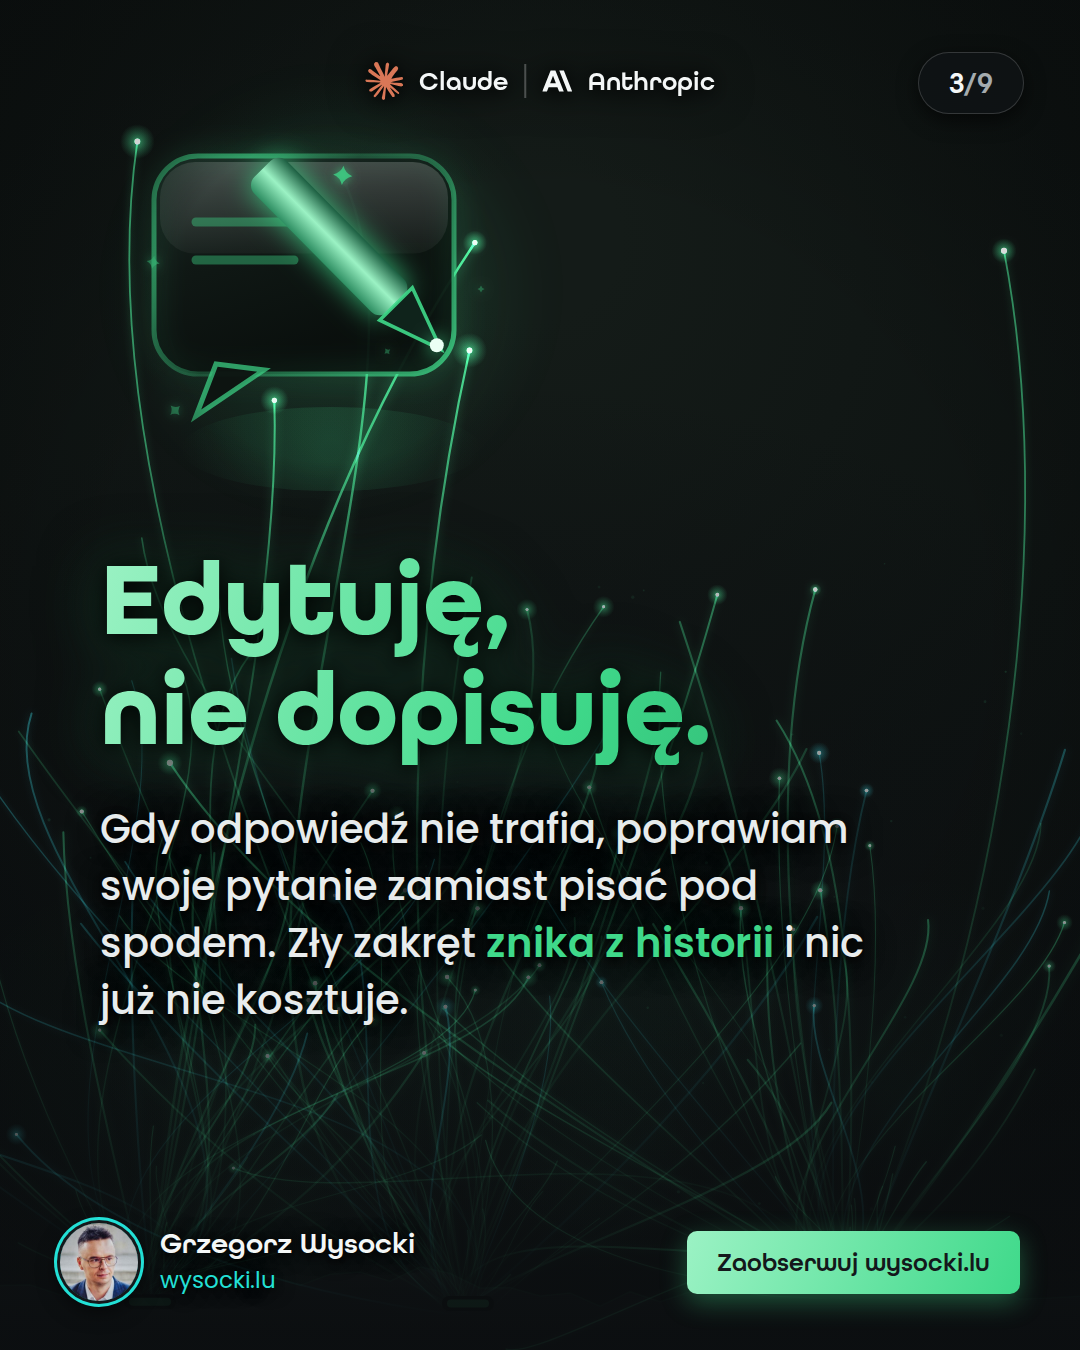
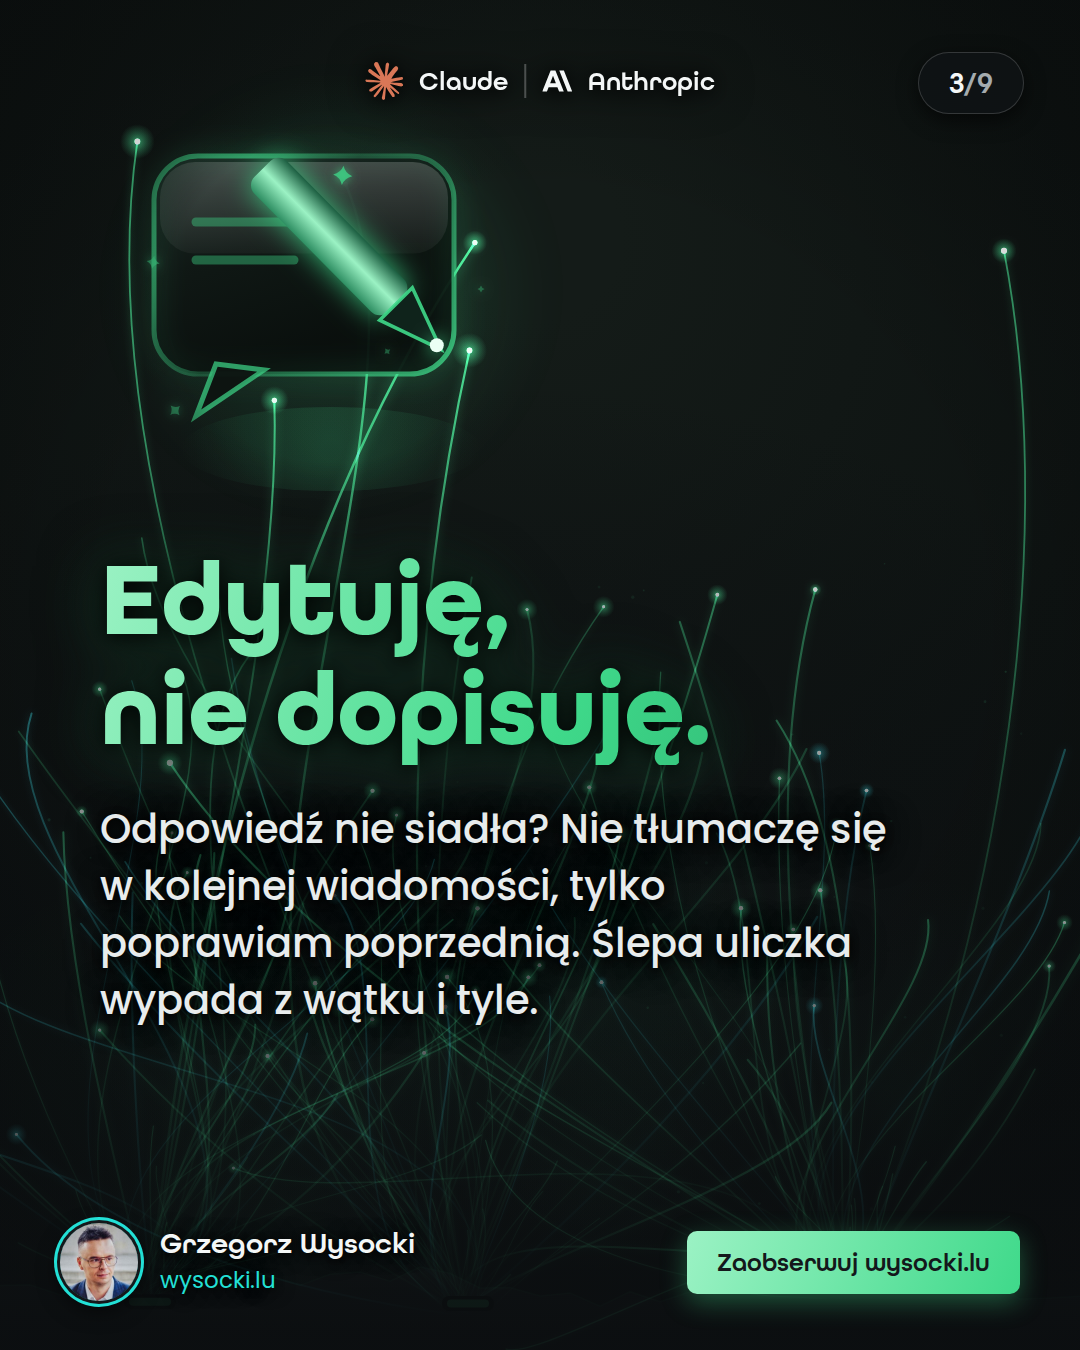
tmp: teksty przepisane na naturalny jezyk
Claude-Session: https://claude.ai/code/session_01VLdxJwrEUDSQYqUjMPfjQ4

Changed region(s): [[0.0917, 0.5911, 0.825, 0.7778]]

diff --git a/index.html b/index.html
@@ -36,21 +36,13 @@ h2{font-size:15px;font-weight:600;margin:28px 0 10px;border-left:3px solid #3FD9
   <a class="card" href="out-tk/slajd-tk-s9.png" download><img src="out-tk/slajd-tk-s9.png" alt="Slajd 9 — CTA"><div class="cap"><b>9</b> · CTA</div></a>
 </div>
 <h2>Opis posta</h2>
-<div class="opis" id="opis">Limit w Claude znikał mi szybciej, niż powinien. Rozpracowałem, gdzie naprawdę uciekają tokeny, i tak sobie to poukładałem. 👇
+<div class="opis" id="opis">W środku roboty wyskoczyło mi „limit reached". Wkurzyłem się i sprawdziłem, na co realnie schodzą tokeny w Claude.
 
-Wyszło z tego 7 poziomów, od świeżego czatu po tryb jaskiniowca. Te same efekty, mniejsze zużycie.
+Wyszło z tego 7 nawyków, które od tamtej pory stosuję codziennie: nowy czat zamiast ciągnięcia starego wątku, edycja pytania zamiast dopisywania, trzy sprawy w jednej wiadomości, Haiku do drobiazgów, stałe pliki w Projekcie, ciężkie zlecenia na noc i krótki styl odpowiedzi.
 
-1⃣ Nowy czat. Długa rozmowa czyta się od początku, więc proszę o podsumowanie i zaczynam świeży wątek.
-2⃣ Edycja. Poprawiam swoje pytanie zamiast dopisywać pod spodem.
-3⃣ Paczka. Trzy pytania pakuję w jedną wiadomość.
-4⃣ Modele. Drobiazgi oddaję Haiku, Opusa trzymam do poważnej pracy.
-5⃣ Projekty. Stałe pliki wgrywam raz, do Projektu.
-6⃣ Nocna zmiana. Ciężkie zlecenia puszczam przed snem, rano są zrobione.
-7⃣ Tryb jaskiniowca. Proszę o zwięzłe odpowiedzi, bez lania wody.
+Szczegóły są na slajdach, każdy nawyk osobno.
 
-Zapisz sobie ten post 🔖 i sprawdź u siebie.
-
-Zaobserwuj mnie po więcej takich ciekawostek o Claude i AI po ludzku. 🟢
+Testuję Claude po polsku, na własnych projektach, i wrzucam takie rzeczy regularnie. Zaobserwuj mnie, jak chcesz być na bieżąco.
 
 #claudeai #claude #anthropic #sztucznainteligencja #aitools #narzedziaai #produktywnosc #aipoludzku</div>
 <button class="kopiuj" onclick="navigator.clipboard.writeText(document.getElementById('opis').innerText).then(()=>{this.textContent='Skopiowano ✓';setTimeout(()=>this.textContent='Kopiuj opis',1600)})">Kopiuj opis</button>

diff --git a/README.md b/README.md
@@ -20,21 +20,13 @@
 ## Opis posta (skopiuj)
 
 ```text
-Limit w Claude znikał mi szybciej, niż powinien. Rozpracowałem, gdzie naprawdę uciekają tokeny, i tak sobie to poukładałem. 👇
+W środku roboty wyskoczyło mi „limit reached". Wkurzyłem się i sprawdziłem, na co realnie schodzą tokeny w Claude.
 
-Wyszło z tego 7 poziomów, od świeżego czatu po tryb jaskiniowca. Te same efekty, mniejsze zużycie.
+Wyszło z tego 7 nawyków, które od tamtej pory stosuję codziennie: nowy czat zamiast ciągnięcia starego wątku, edycja pytania zamiast dopisywania, trzy sprawy w jednej wiadomości, Haiku do drobiazgów, stałe pliki w Projekcie, ciężkie zlecenia na noc i krótki styl odpowiedzi.
 
-1⃣ Nowy czat. Długa rozmowa czyta się od początku, więc proszę o podsumowanie i zaczynam świeży wątek.
-2⃣ Edycja. Poprawiam swoje pytanie zamiast dopisywać pod spodem.
-3⃣ Paczka. Trzy pytania pakuję w jedną wiadomość.
-4⃣ Modele. Drobiazgi oddaję Haiku, Opusa trzymam do poważnej pracy.
-5⃣ Projekty. Stałe pliki wgrywam raz, do Projektu.
-6⃣ Nocna zmiana. Ciężkie zlecenia puszczam przed snem, rano są zrobione.
-7⃣ Tryb jaskiniowca. Proszę o zwięzłe odpowiedzi, bez lania wody.
+Szczegóły są na slajdach, każdy nawyk osobno.
 
-Zapisz sobie ten post 🔖 i sprawdź u siebie.
-
-Zaobserwuj mnie po więcej takich ciekawostek o Claude i AI po ludzku. 🟢
+Testuję Claude po polsku, na własnych projektach, i wrzucam takie rzeczy regularnie. Zaobserwuj mnie, jak chcesz być na bieżąco.
 
 #claudeai #claude #anthropic #sztucznainteligencja #aitools #narzedziaai #produktywnosc #aipoludzku
 ```
